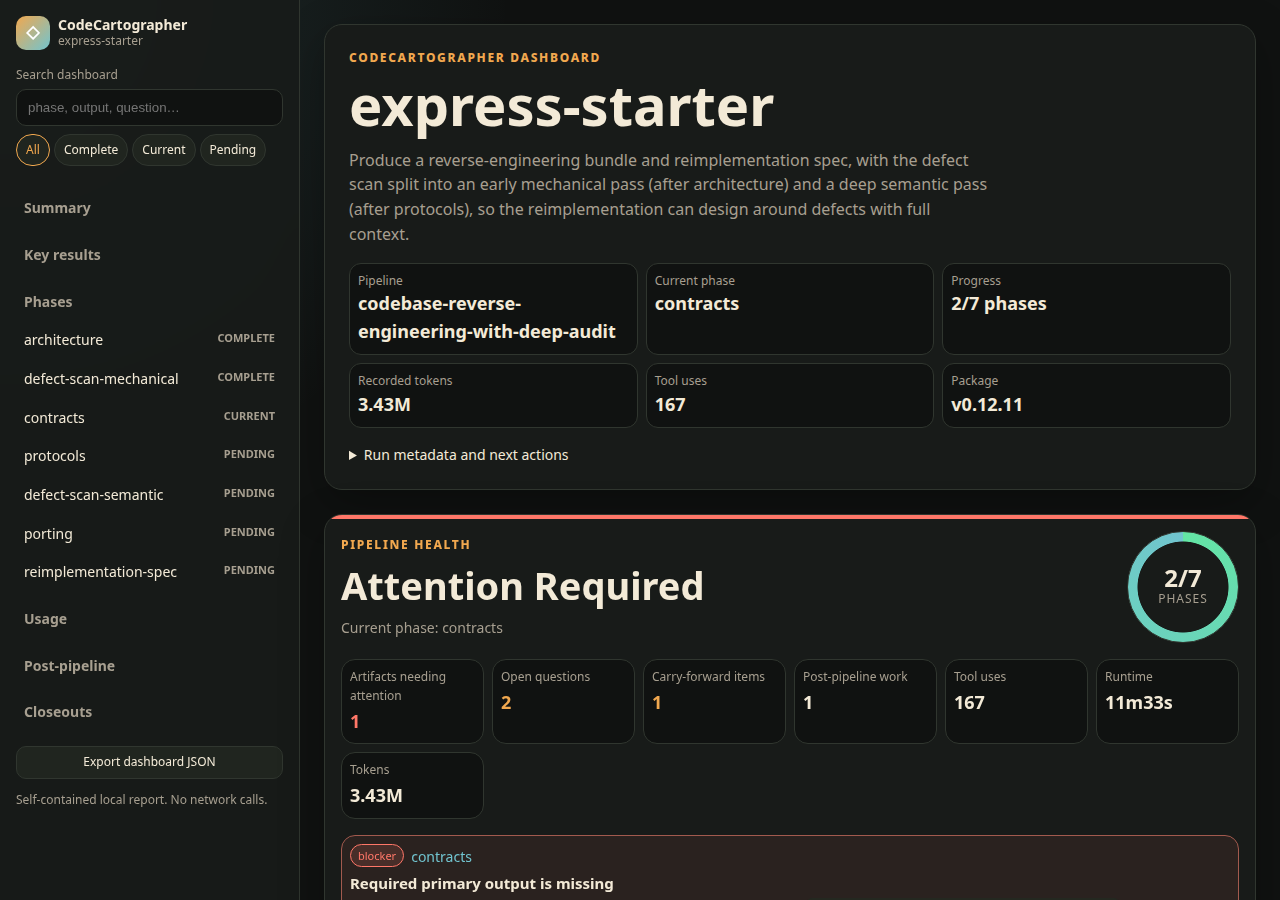
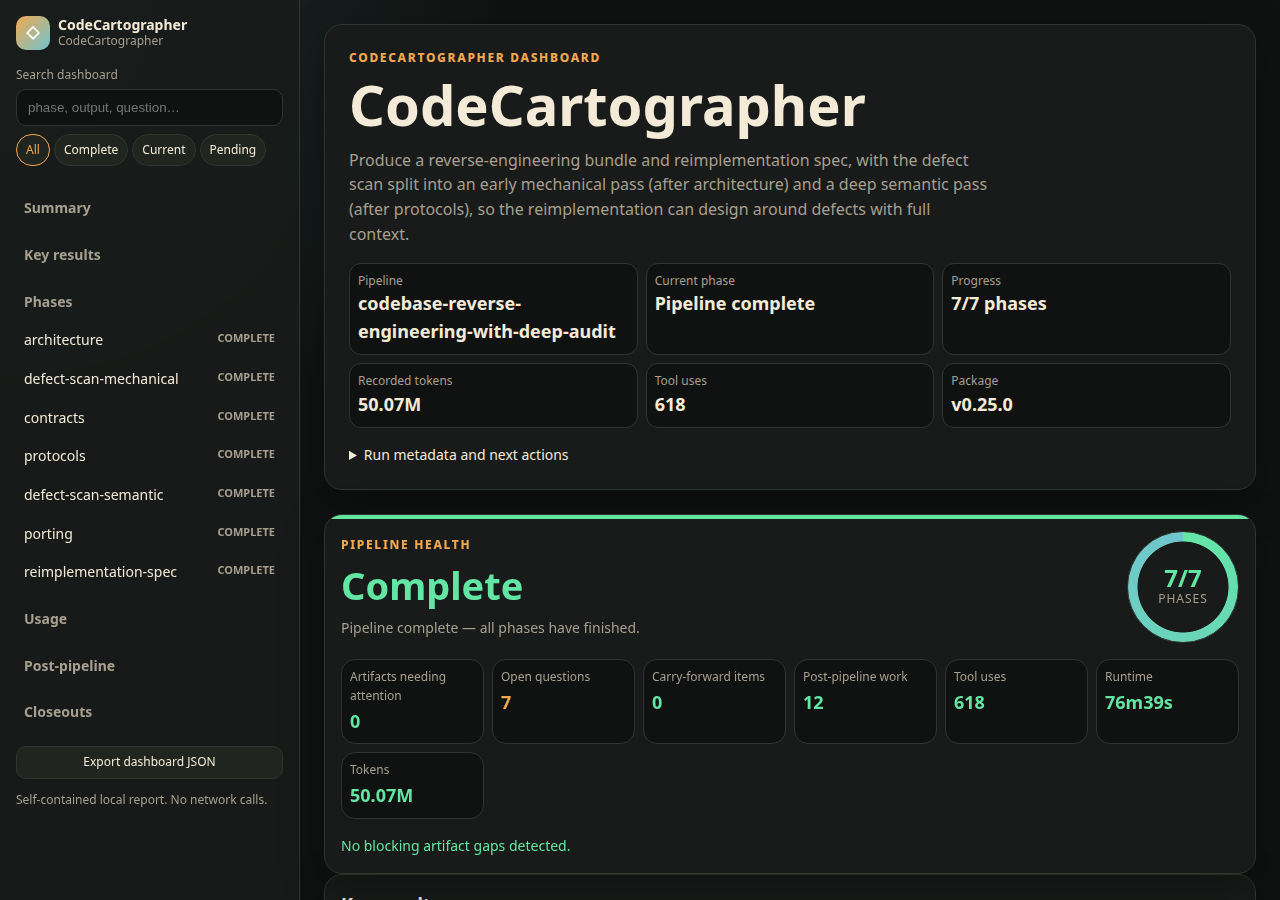
docs: v0.25.0 — Pi natively, any other harness over MCP; CodeCartographer's own dashboard as the hero (#22)
The eyebrow said "Works with Pi, Claude Code, Cursor, and Codex · v0.19.1";
it now says what the surfaces are — Pi natively, any other agent harness
over MCP — and carries v0.25.0, as do the four footers. The hero image and
the terminal mock are CodeCartographer's own full deep-audit run on its
repository (2026-09-15: 7/7 phases, 618 tool uses, 50M tokens, 77 minutes)
instead of another project's. The dashboard copy no longer claims "no
JavaScript": the file inlines a data island and a search script; it has no
external assets and makes no network calls, which is what mattered.

diff --git a/index.html b/index.html
@@ -41,7 +41,7 @@
     <div class="hero-copy">
       <div class="hero-eyebrow">
         <span class="dot"></span>
-        Works with Pi, Claude Code, Cursor, and Codex · v0.19.1
+        Works with Pi natively, and any other agent harness over MCP · v0.25.0
       </div>
       <h1>Understand an unfamiliar codebase. <em>Get a spec you can rebuild from.</em></h1>
       <p class="hero-sub">
@@ -71,8 +71,8 @@
       </div>
       <div class="preview-body">
         <div class="preview-line preview-root">● CodeCartographer</div>
-        <div class="preview-line done">├─ ✓ architecture <small>76 tools · 1.0M tokens</small></div>
-        <div class="preview-line done">├─ ✓ defect scan <small>91 tools · 2.4M tokens</small></div>
+        <div class="preview-line done">├─ ✓ architecture <small>97 tools · 5.8M tokens</small></div>
+        <div class="preview-line done">├─ ✓ defect scan <small>131 tools · 11.5M tokens</small></div>
         <div class="preview-line active">└─ ⠹ contracts <small>extracting behavior…</small></div>
         <div class="preview-card">
           <span class="pill pill-teal">Observed fact</span>
@@ -89,13 +89,13 @@
     <div class="overline">The dashboard</div>
     <h2>Every run writes a self-contained report.</h2>
     <p class="section-sub">
-      A single HTML file in <code>.codecarto/dashboard.html</code> — no JavaScript, no external assets, no
+      A single HTML file in <code>.codecarto/dashboard.html</code> — no external assets, no
       network calls. Phase status, per-phase token and tool-use telemetry, open questions, and blockers,
       rendered straight from the workspace on disk.
     </p>
     <figure class="dashboard-figure">
       <img src="dashboard-hero.png" width="1280" height="900" loading="lazy" decoding="async"
-        alt="CodeCartographer dashboard: a mid-run pipeline with the architecture and mechanical defect-scan phases complete, contracts in progress, and per-phase token and tool-use telemetry.">
+        alt="CodeCartographer's dashboard after running its full deep-audit pipeline on its own repository: 7/7 phases complete, 50M tokens and 618 tool uses across 77 minutes, seven open questions and twelve post-pipeline items routed, no blocking artifact gaps.">
     </figure>
   </div>
 </section>
@@ -338,7 +338,7 @@ Read .codecarto/GUIDE.md and begin the analysis.</pre>
     </div>
   </div>
   <div class="site-footer-bottom">
-    <span>v0.19.1 · MIT License</span>
+    <span>v0.25.0 · MIT License</span>
     <span>codecarto.dev</span>
   </div>
 </footer>

diff --git a/docs.html b/docs.html
@@ -421,7 +421,7 @@ codecarto_broadside {cwd, action: "collect"}</pre>
     </div>
   </div>
   <div class="site-footer-bottom">
-    <span>v0.19.1 · MIT License</span>
+    <span>v0.25.0 · MIT License</span>
     <span>codecarto.dev</span>
   </div>
 </footer>

diff --git a/features.html b/features.html
@@ -424,7 +424,7 @@
     </div>
   </div>
   <div class="site-footer-bottom">
-    <span>v0.19.1 · MIT License</span>
+    <span>v0.25.0 · MIT License</span>
     <span>codecarto.dev</span>
   </div>
 </footer>

diff --git a/showcase.html b/showcase.html
@@ -270,7 +270,7 @@
     </div>
   </div>
   <div class="site-footer-bottom">
-    <span>v0.19.1 · MIT License</span>
+    <span>v0.25.0 · MIT License</span>
     <span>codecarto.dev</span>
   </div>
 </footer>
